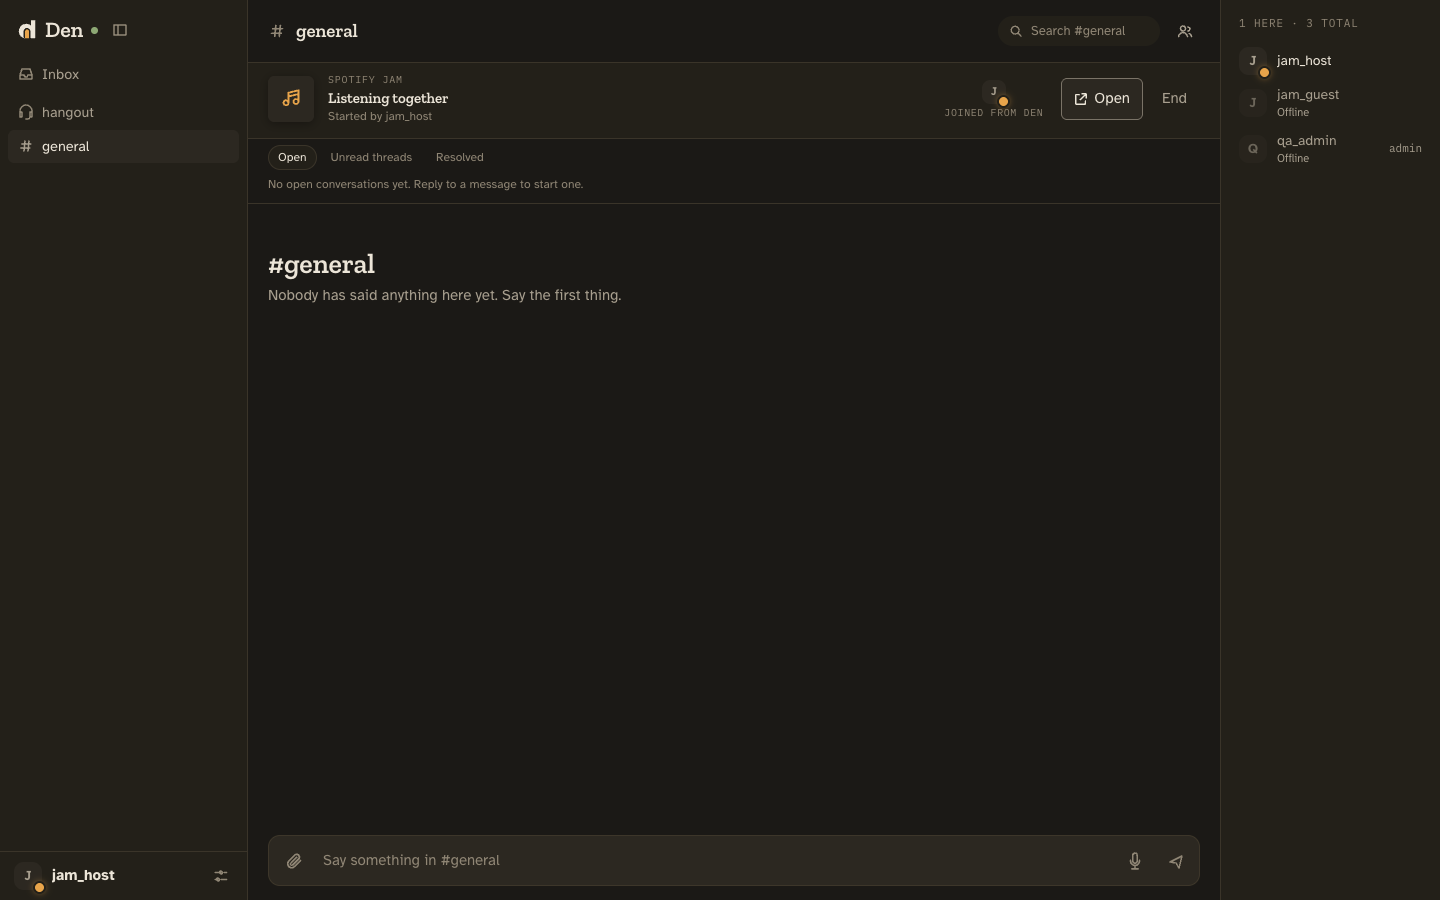
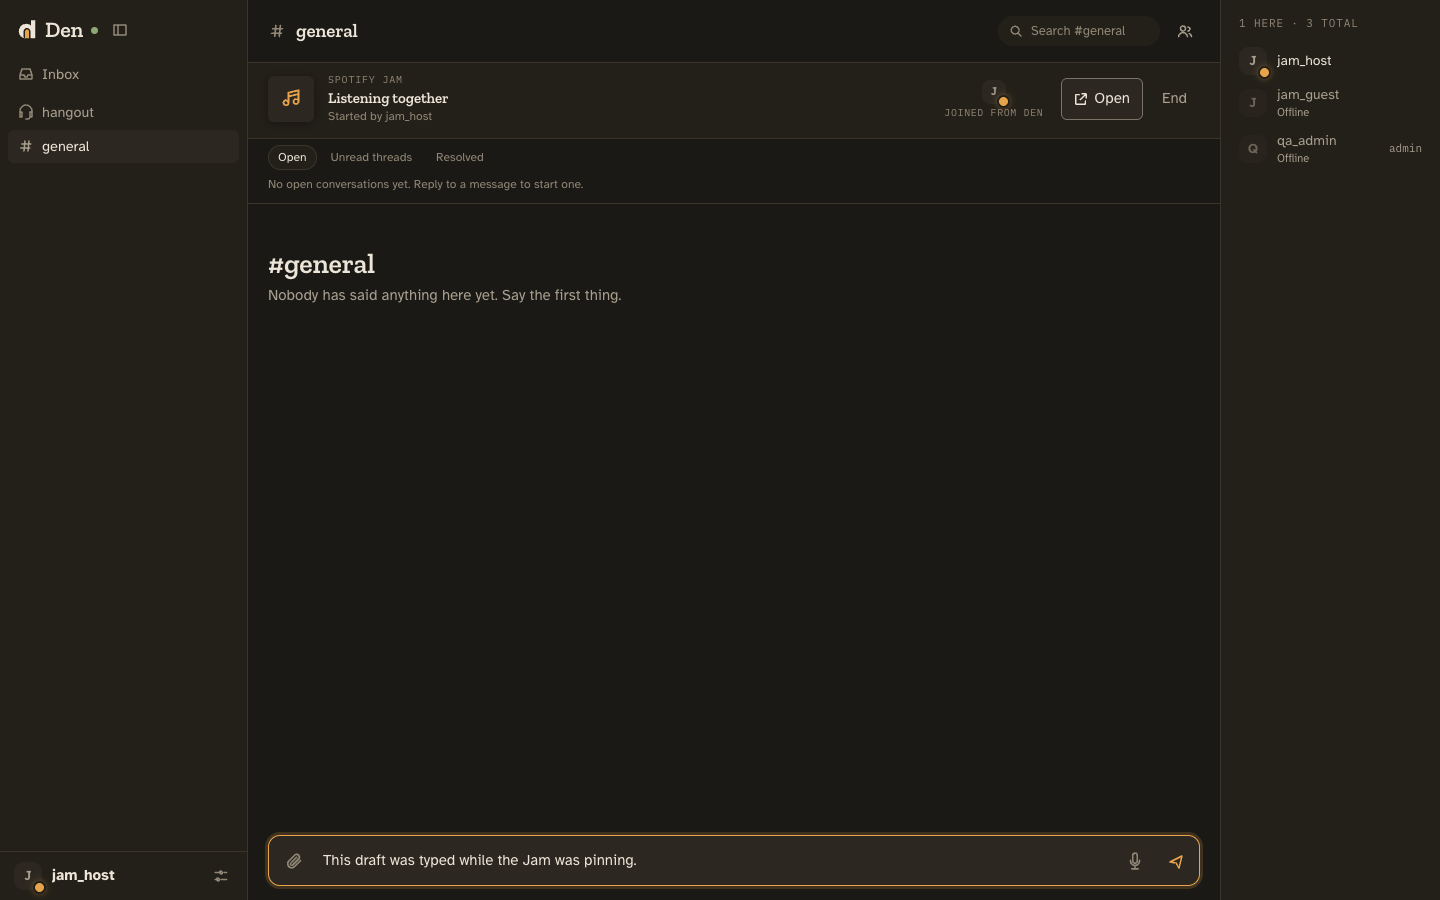
Record independent Spotify review evidence

Changed region(s): [[0.1875, 0.9022, 0.8438, 0.9956]]

diff --git a/docs/SPOTIFY-JAM-ACCEPTANCE.md b/docs/SPOTIFY-JAM-ACCEPTANCE.md
@@ -33,9 +33,14 @@ clients that predate Jam events. Production deployment is not part of this work.
   visible room.
 - Missing OAuth scopes, expired or revoked grants, rotated refresh tokens, and
   `429 Retry-After` were not covered end to end. Each now has a provider-stub test.
+- Playback backoff truncated Spotify's requested delay to 60 seconds. It now
+  preserves the full `Retry-After` up to the connection's remaining lifetime.
 - A token refresh already in flight could finish after Disconnect and restore an
   access token and playback sample. Account generations now make older provider
   work ineligible, and Disconnect clears on both sides of the refresh lock.
+- An OAuth callback already exchanging its code could reconnect after Disconnect.
+  Authorization attempts now carry the account generation, and Disconnect
+  cancels both pending and in-flight attempts before they can store a grant.
 - Refresh-token rotation initially extended the grant. Spotify documents that
   access-token refresh does not extend the six-month lifetime, so rotation now
   replaces only the encrypted token material.
@@ -48,6 +53,12 @@ clients that predate Jam events. Production deployment is not part of this work.
 - An in-flight Spotify account read could likewise repopulate the next account
   or overwrite a newer socket update. Account reads now bind to both the account
   epoch and the latest accepted Spotify update.
+- Delayed Jam write responses could overwrite a newer socket event, cross logout,
+  or clear the same room in another Electron instance. Every Jam mutation now
+  stays with its concrete Store, account generation, and per-room sequence.
+- Pinning a Jam cleared text typed while the request was pending. The pin now
+  uses the composer's existing draft owner, lifetime, conversation, and revision
+  checks before clearing only the submitted draft.
 - The initial card used perpetual pulse motion, ambiguous external-link labels,
   and a voice form that offered no keyboard path to validation. Those controls
   now use a static status, descriptive link names, and focused inline errors.
@@ -66,11 +77,11 @@ fixed there. No shipped-defect issue was filed for them.
 Green local checks:
 
 - `cargo fmt --check`
-- Four Spotify/Jam unit tests
-- Twelve deterministic Spotify/Jam API integration tests
+- Five Spotify/Jam unit tests
+- Thirteen deterministic Spotify/Jam API integration tests
 - Portable export/import roundtrip
 - `npm run check --prefix apps/web` (one inherited unused-selector warning)
-- Eighty-five web state/behavior tests
+- Eighty-eight web state/behavior tests
 - `npm run build --prefix apps/web`, including all authored contrast palettes
 - Actual-server OpenAPI regeneration for web and Swift
 - Swift client schema consistency check and package build
@@ -78,9 +89,10 @@ Green local checks:
 
 Every new automated test was mutation-proven before the mutation was removed:
 
-- One temporary crypto/URL/key-permission mutation made all four unit tests fail.
+- One temporary crypto/URL/key-permission mutation made all four original unit
+  tests fail; the backoff test separately failed against the 60-second cap.
 - Temporary authorization, refresh, timeout, scope, ownership, privacy, rate-limit,
-  disconnect-race, and event-gate regressions made all twelve Spotify/Jam
+  disconnect/callback races, and event-gate regressions made all thirteen Spotify/Jam
   integrations fail.
 - Retaining Spotify credentials in a default import made the portability test fail.
 - Dropping Jam socket handling made the browser smoke fail on shared state.
@@ -88,6 +100,10 @@ Every new automated test was mutation-proven before the mutation was removed:
   isolation regression test fail.
 - Allowing a stale Spotify account read to cross logout or overwrite a socket
   update made both account-state regressions fail.
+- Removing Jam mutation guards made the stale-socket and cross-account tests
+  fail; resolving End through the active Store made the instance test fail.
+- Holding the pin response while typing made the browser smoke fail when the
+  completion erased the newer draft.
 
 After restoration, the focused suites returned green and the temporary breaks
 were absent from the diff. The browser runner writes its machine-readable result
